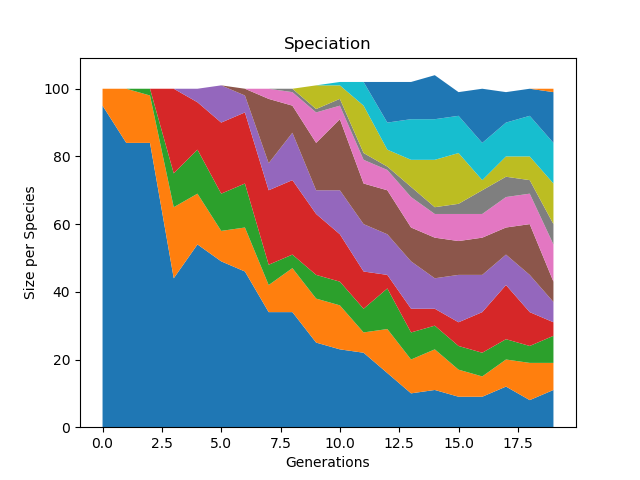
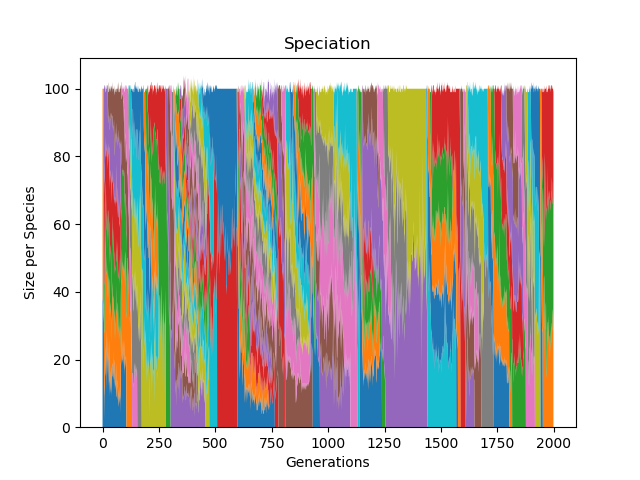
add species number

diff --git a/lynx/enn10times_lynx.py b/lynx/enn10times_lynx.py
@@ -84,7 +84,7 @@ def run(config_file):
 
     # Run for up to 300 generations.
     pe = neat.ParallelEvaluator(multiprocessing.cpu_count(), eval_genome)
-    winner = p.run(pe.evaluate, 200)
+    winner = p.run(pe.evaluate, 2000)
 
     return stats
 
@@ -121,5 +121,17 @@ if __name__ == "__main__":
     plt.plot(generation, np.average(np.array(avg_fitness_list),axis = 0), label="Average")
     plt.plot(generation, np.average(np.array(best_list),axis = 0), label="Best")
 
-
     plt.savefig('average10times.png')
+
+    species_list = []
+    for i in range(10):
+        species_sizes = stats_list[i].get_species_sizes()
+        species_number = []
+        for j in generation:
+            species_number.append(np.count_nonzero(species_sizes[j]))
+        plt.plot(species_number)
+        species_list.append(species_number)
+
+    plt.plot(generation, np.average(np.array(species_list),axis = 0), label="series")
+
+    plt.savefig('species10times.png')

diff --git a/lynx/enn_lynx.py b/lynx/enn_lynx.py
@@ -85,7 +85,7 @@ def run(config_file):
 
     # Run for up to 300 generations.
     pe = neat.ParallelEvaluator(multiprocessing.cpu_count(), eval_genome)
-    winner = p.run(pe.evaluate, 20)
+    winner = p.run(pe.evaluate, 2000)
 
     # Display the winning genome.
     print("\nBest genome:\n{!s}".format(winner))
